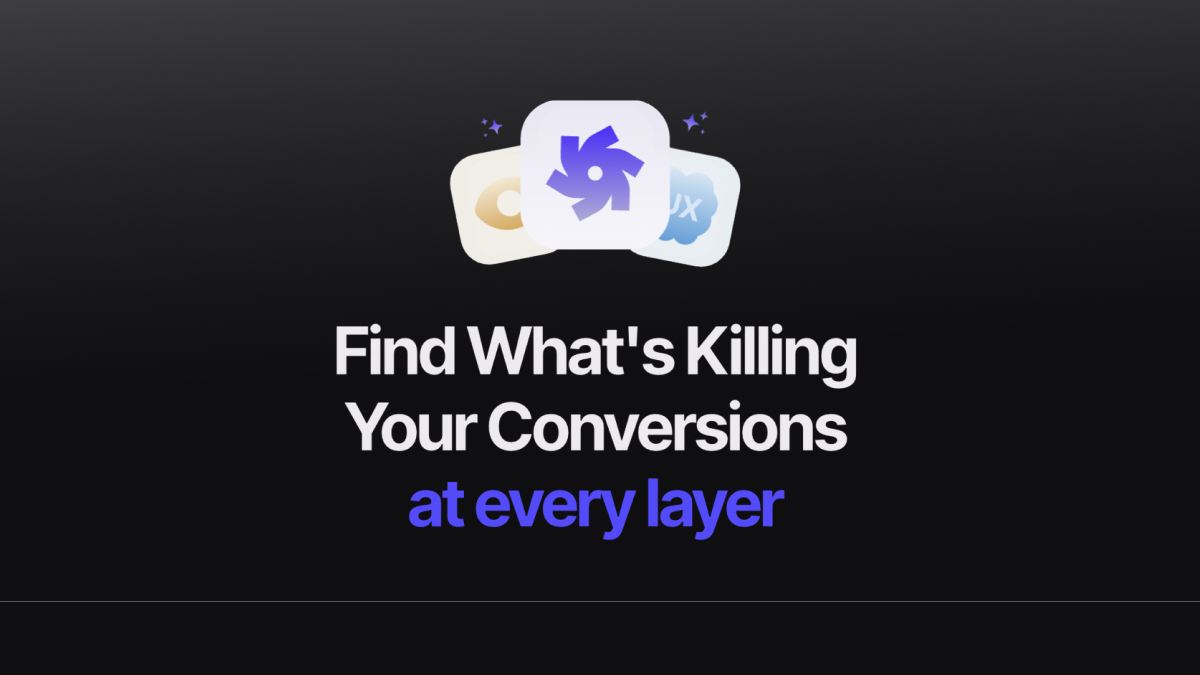
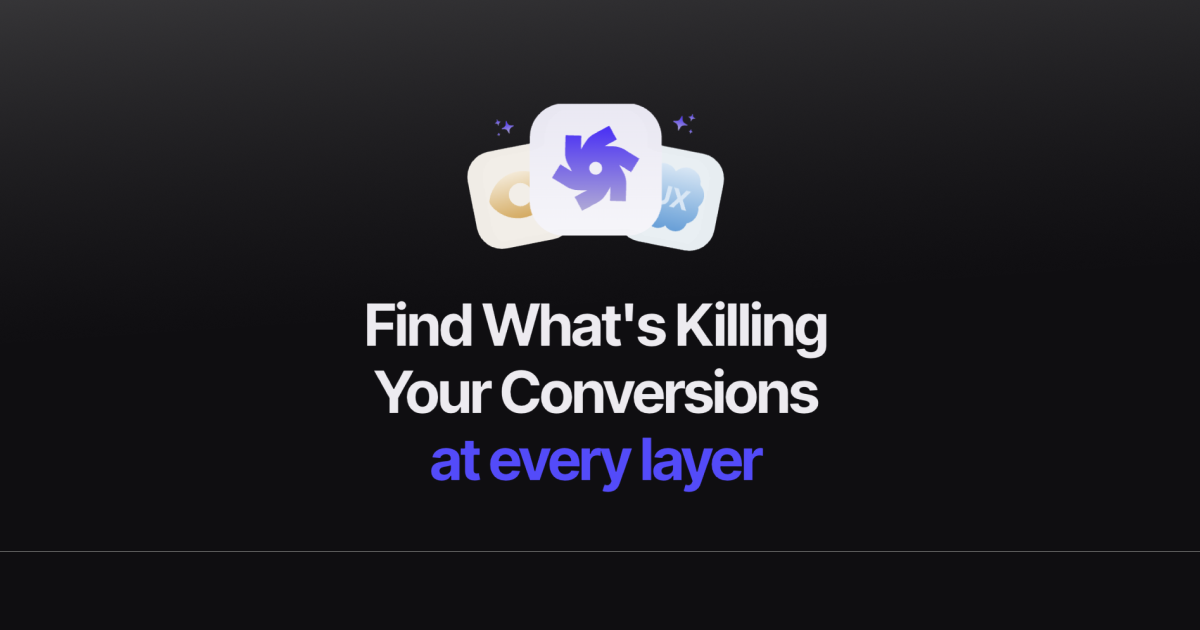
Update OG image to correct 1200x630 dimensions

Changed region(s): [[0.2775, 0.4825, 0.74, 0.8143], [0.37, 0.1206, 0.6167, 0.4222], [0.0, 0.8746, 1.0, 0.9048]]

diff --git a/src/app/layout.tsx b/src/app/layout.tsx
@@ -82,7 +82,7 @@ export const metadata: Metadata = {
       {
         url: "/og-image.png",
         width: 1200,
-        height: 675,
+        height: 630,
         alt: "UXLens — Find What's Killing Your Conversions",
       },
     ],
